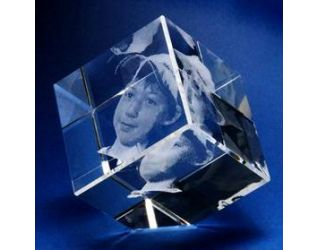
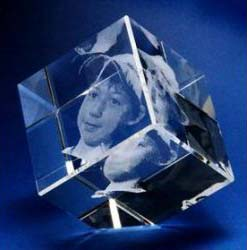
small edits for the badge, image crop and other stuff

diff --git a/src/app/products/page.tsx b/src/app/products/page.tsx
@@ -241,43 +241,6 @@ export default function ProductsPage() {
 
       <div className="container-full mx-auto bg-slate-100 p-4 relative">       
         
-        {/* Quick Filters - Featured & Sale */}
-        {/*<section className="my-6 sticky bg-white py-4 px-4 top-[var(--header-height)] z-10 border-b border-gray-200">
-          <div className="flex flex-wrap gap-2 justify-center md:justify-start items-center">
-            {products.filter(p => isFeaturedProduct(p)).length > 0 && (
-              <button
-                onClick={() => handleCategoryChange(selectedCategory === 'featured' ? 'all' : 'featured')}
-                className={`px-4 py-2 rounded-lg font-medium transition-all duration-200 flex items-center gap-2 text-sm ${
-                  selectedCategory === 'featured'
-                    ? 'bg-amber-500 text-white shadow-lg'
-                    : 'bg-amber-50 text-amber-700 hover:bg-amber-100 border border-amber-200'
-                }`}
-              >
-                <svg className="w-4 h-4" fill="currentColor" viewBox="0 0 20 20">
-                  <path d="M9.049 2.927c.3-.921 1.603-.921 1.902 0l1.07 3.292a1 1 0 00.95.69h3.462c.969 0 1.371 1.24.588 1.81l-2.8 2.034a1 1 0 00-.364 1.118l1.07 3.292c.3.921-.755 1.688-1.54 1.118l-2.8-2.034a1 1 0 00-1.175 0l-2.8 2.034c-.784.57-1.838-.197-1.539-1.118l1.07-3.292a1 1 0 00-.364-1.118L2.98 8.72c-.783-.57-.38-1.81.588-1.81h3.461a1 1 0 00.951-.69l1.07-3.292z"/>
-                </svg>
-                Featured
-              </button>
-            )}
-            {products.filter(p => isOnSale(p)).length > 0 && (
-              <button
-                onClick={() => handleCategoryChange(selectedCategory === 'sale' ? 'all' : 'sale')}
-                className={`px-4 py-2 rounded-lg font-medium transition-all duration-200 flex items-center gap-2 text-sm ${
-                  selectedCategory === 'sale'
-                    ? 'bg-red-500 text-white shadow-lg'
-                    : 'bg-red-50 text-red-700 hover:bg-red-100 border border-red-200'
-                }`}
-              >
-                <svg className="w-4 h-4" fill="currentColor" viewBox="0 0 20 20">
-                  <path d="M8.433 7.418c.155-.103.346-.196.567-.267v1.698a2.305 2.305 0 01-.567-.267C8.07 8.34 8 8.114 8 8c0-.114.07-.34.433-.582zM11 12.849v-1.698c.22.071.412.164.567.267.364.243.433.468.433.582 0 .114-.07.34-.433.582a2.305 2.305 0 01-.567.267z"/>
-                  <path fillRule="evenodd" d="M10 18a8 8 0 100-16 8 8 0 000 16zm1-13a1 1 0 10-2 0v.092a4.535 4.535 0 00-1.676.662C6.602 6.234 6 7.009 6 8c0 .99.602 1.765 1.324 2.246.48.32 1.054.545 1.676.662v1.941c-.391-.127-.68-.317-.843-.504a1 1 0 10-1.51 1.31c.562.649 1.413 1.076 2.353 1.253V15a1 1 0 102 0v-.092a4.535 4.535 0 001.676-.662C13.398 13.766 14 12.991 14 12c0-.99-.602-1.765-1.324-2.246A4.535 4.535 0 0011 9.092V7.151c.391.127.68.317.843.504a1 1 0 101.511-1.31c-.563-.649-1.413-1.076-2.354-1.253V5z" clipRule="evenodd"/>
-                </svg>
-                On Sale
-              </button>
-            )}
-          </div>
-        </section>*/}
-
         <div className="flex flex-row gap-2 sm:gap-4">
         {/*<div className="grid sm:grid-cols-5 md:grid-cols-7 lg:grid-cols-7 gap-3">*/}
 
@@ -406,7 +369,7 @@ export default function ProductsPage() {
                   </button>
                 </div>
               ) : (
-                <div className="grid grid-cols-1 sm:grid-cols-1 md:grid-cols-2 lg:grid-cols-3 xl:grid-cols-3 gap-6">
+                <div className="grid grid-cols-1 sm:grid-cols-1 md:grid-cols-2 lg:grid-cols-4 xl:grid-cols-5 gap-6">
                   {filteredProducts.map((product) => (
                     <ProductCard key={product.id} product={product} />
                   ))}

diff --git a/src/components/ProductBadges.tsx b/src/components/ProductBadges.tsx
@@ -34,19 +34,19 @@ export default function ProductBadges({ product, position = 'card', className = 
   const getContainerClass = () => {
     switch (position) {
       case 'card':
-        return 'productcard absolute left-4 top-0 inset-0 pointer-events-none z-10'
+        return 'productcard'
       case 'detail':
-        return 'detail absolute left-100 top-0 inset-0 pointer-events-none z-10'
+        return 'detail'
       case 'gallery':
-        return 'gallery absolute left-0 top-0 inset-0 pointer-events-none z-10'
+        return 'gallery'
       default:
-        return 'default absolute left-99 top-0 inset-0 pointer-events-none z-10'
+        return 'default'
     }
   }
 
   // Featured badge styling - consistent across all views
   const featuredBadge = isFeatured && (
-    <>
+    <div className="absolute z-6 right-4 top-4">
       <div className="bg-gradient-to-br from-yellow-400 to-amber-500 text-white px-3 py-1.5 rounded-full shadow-lg flex items-center gap-1.5 text-xs font-bold uppercase tracking-wide">
         <svg 
           className="w-4 h-4" 
@@ -58,19 +58,21 @@ export default function ProductBadges({ product, position = 'card', className = 
         </svg>
         <span>Featured</span>
       </div>
-    </>
+    </div>
   )
 
   // Sale badge styling - consistent across all views
-  const saleBadge = onSale && (    
+  const saleBadge = onSale && (
+    <div className="absolute z-6 left-4 top-0">
     <span className="labelSale shadow-lg text-white bg-gradient-to-b leading-none text-sm from-amber-800 to-[#ce0000] tracking-wide uppercase">
       Sale
-    </span> 
+    </span>
+    </div> 
   )
 
   // Light Base badge - only for detail/gallery views
   const lightbaseBadge = isLightbase && (position === 'detail' || position === 'gallery' || position === 'card') && (
-    <>
+    <div className="lightbase-tag absolute z-6 right-4 bottom-4">
       <span className="inline-flex items-center gap-1.5 px-3 py-1.5 bg-amber-100 text-amber-800 rounded-full shadow-sm text-sm font-semibold">
         <svg 
           className="w-4 h-4" 
@@ -82,12 +84,12 @@ export default function ProductBadges({ product, position = 'card', className = 
         </svg>
         Light Base
       </span>
-    </>
+    </div>
   )
 
   // Return container with all badges
   return (
-    <div className={`${getContainerClass()} ${className} here`}>
+    <div className={`${getContainerClass()} ${className}`}>
       {featuredBadge}
       {saleBadge}
       {lightbaseBadge}

diff --git a/src/components/ProductDetailClient.tsx b/src/components/ProductDetailClient.tsx
@@ -22,6 +22,8 @@ import ProductBadges from '@/components/ProductBadges'
 
 import '../app/css/modal.css'
 import '../app/css/product-options.css'
+import '../app/css/gallery.css'
+
 import { getProducts } from '@/lib/products'
 
 // Environment
@@ -595,10 +597,10 @@ export default function ProductDetailClient() {
                 </div>
               </div>
 
-              <div className="w-full overflow-hidden rounded-lg relative">
+              <div className="w-full overflow-hidden">
                 {finalMaskedImage ? (
                   <div className="space-y-4">
-                    <div className="aspect-square w-full overflow-hidden rounded-lg bg-gray-100">
+                    <div className="aspect-square w-full overflow-hidden rounded-xl bg-gray-100">
                       <Image
                         src={finalMaskedImage} 
                         alt="Customer Preview" 
@@ -648,10 +650,10 @@ export default function ProductDetailClient() {
           </div>
 
           {/* Product info */}
-          <div className="mt-10 px-4 sm:mt-16 sm:px-0 lg:mt-0">
+          <div className="mt-10 px-4 sm:mt-16 sm:px-0 lg:mt-0 col-span-2">
 
             <div className="flex items-start flex-wrap">
-              <h1 className="text-8xl font-bold tracking-tight text-gray-900">{product.name}</h1>             
+              <h1 className="text-6xl font-bold tracking-tight text-gray-900">{product.name}</h1>             
             </div>
 
             <div className="mt-3">

diff --git a/src/app/css/gallery.css b/src/app/css/gallery.css
@@ -1,4 +1,25 @@
-.product-gallery {
-	.main-image {}
-	.thumbnails {}	
+.product-gallery { 
 }
+ 
+
+.product-gallery .btn-gallery-contols {
+  position: absolute;
+  border: 0 none transparent;
+  background-color: transparent;
+  top: 0;
+  bottom: 0;
+  transition: background-color 250ms ease;
+  height: 100%;
+}
+
+.product-gallery .btn-gallery-contols:hover {
+  transition: background-color 250ms ease;
+  background-color: var(--brand-400);
+}
+
+.product-gallery .previousImage {
+  left:0;
+}
+.product-gallery .nextImage {
+  right:0;
+} 

diff --git a/src/components/ProductGallery.tsx b/src/components/ProductGallery.tsx
@@ -57,7 +57,7 @@ export default function ProductGallery({ images = [] }) {
   return (
     <div className="product-gallery">
       {/* Main Image - Use regular img tag to avoid Next.js optimization issues */}
-      <div className="main-image mb-3" style={{ position: 'relative', height: '500px' }}>
+      <div className="main-image mb-3">
         <img
           src={displaySrc || 'https://placehold.co/800x800?text=No+Image'}
           alt={`Product image ${activeIndex + 1}`}

diff --git a/src/app/css/main.css b/src/app/css/main.css
@@ -261,7 +261,7 @@ header {
   background-color: var(--brand-600);
 /*  transform: scale(1.05);*/
 }
-
+/*
 .product-gallery {
   overflow: hidden;
   border-radius: 3px;
@@ -296,7 +296,7 @@ header {
 }
 .product-gallery .nextImage {
   right:0;
-} 
+} */
 
 /* Custom Radio Button Styles */
 .custom-checkbox-label,
